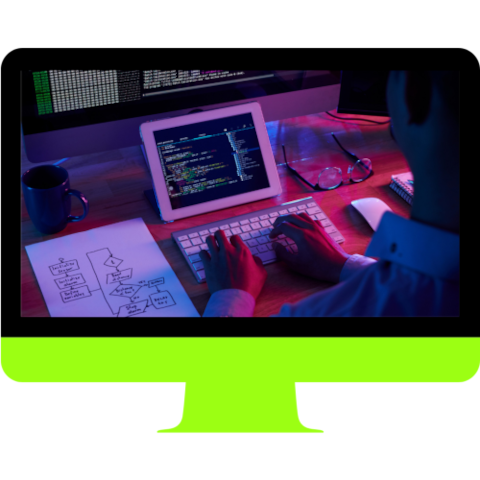
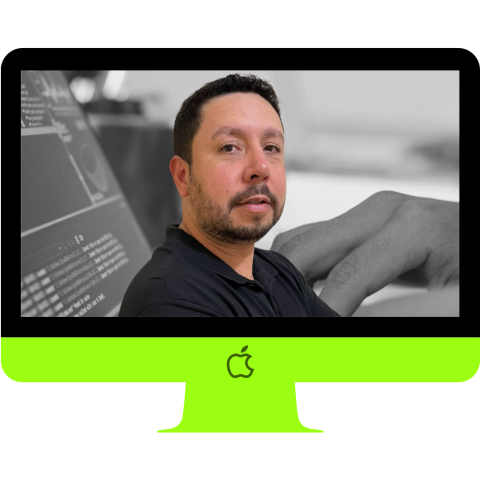
feat: add pages sobre, portifolio, contato

diff --git a/index.html b/index.html
@@ -34,14 +34,13 @@
             <!-- FIM MENU -->
             <!-- BOTÃO CONTATO -->
             <div class="btn-contato">
-            <a href="#">
+            <a href="https://wa.link/fyvd8f">
                 <button>Contato</button>
             </a>
             </div>
             <!-- FIM BOTÃO CONTATO -->
         </div>
-    </header>
-    <!-- FIM HEADER -->
+    </header> <!-- FIM HEADER -->
     <main> 
         <section class="topo">
             <div class="interface">
@@ -55,7 +54,7 @@
                             Bem-vindo à Infinity WD, onde transformamos ideias em experiências digitais de alta qualidade para impulsionar o sucesso da sua marca. Se você está pronto para elevar a sua presença online e alcançar novos patamares de sucesso digital, estamos aqui para ajudar. Vamos transformar suas visões em realidade digital. Entre em contato conosco hoje mesmo para começar esta jornada emocionante.
                         </p>
                         <div class="btn-contato">
-                            <a href="#">
+                            <a href="https://wa.link/fyvd8f">
                                 <button>Entre em Contato</button>
                             </a>
                         </div>
@@ -66,7 +65,28 @@
                     </div>
                 </div>
             </div>
-        </section>
+        </section> <!-- FIM TOPO -->
+        <section class="sobre">
+            <div class="interface">
+                <div class="flex">
+                    <div class="img-sobre">
+                        <img src="images/eu.png" alt="Marcio David">
+                    </div>
+                    <div class="txt-sobre">
+                        <h2>MUITO PRAZER, SOU <span>MARCIO DAVID.</span></h2>
+                        <p>Tenho 42 anos, dos quais, 22 anos trabalhando na área de Logística do Agronegócio. Apaixonado por tecnologia, decidi fazer a transição de carreira para a área de TI.</p> <p>Atualmente encontro-me no segundo semestre do curso Superior de Tecnologia em Análise e Desenvolvimeto de Sistemas, buscando aprimorar minhas habilidades e conhecimentos nesta área em constante evolução.</p>
+                        <p>Determinado e  comprometido em adquirir as competências necessárias para se destacar neste novo campo e contribuir de forma significativa para o setor de tecnologia.</p>
+                        <div class="btn-social">
+                            <a href="https://www.instagram.com/o_marciodavid/" title="Instagran" target="_blank"><button><i class="bi bi-instagram"></i></button></a>
+                            <a href="https://www.facebook.com/marcio.david.754" title="Facebook" target="_blank"><button><i class="bi bi-facebook"></i></button></a>
+                            <a href="https://wa.link/fyvd8f" title="WhatsApp" target="_blank"><button><i class="bi bi-whatsapp"></i></button></a>
+                            <a href="https://www.linkedin.com/in/marcio-david-a8152733/" title="Linkdin" target="_blank"><button><i class="bi bi-linkedin"></i></button></a>
+                            <a href="https://github.com/MarcioDavid81" title="GitHub" target="_blank"><button><i class="bi bi-github"></i></button></a>
+                        </div>
+                    </div>
+                </div>
+            </div>
+        </section> <!-- FIM SOBRE -->
         <section class="cursos">
             <div class="interface">
                 <h2 class="titulo">FORMAÇÃO E  CURSOS DE <span>APERFEIÇOAMENTO.</span></h2>
@@ -93,7 +113,70 @@
                     </div>
                 </div>
             </div>
-        </section>
-    </main>
+        </section> <!-- FIM CURSOS -->
+        <section class="portifolio">
+            <div class="interface">
+                <h2 class="titulo">PORTIFÓLIO DE <span>PROJETOS.</span></h2>
+                <div class="flex">
+                    <a href="https://www.cookieskuks.com.br/nutritiva/" target="_blank">
+                        <div class="img-port" id="nutritiva">
+                            <div class="overlay">Clínica Integrada Nutritiva</div>
+                        </div>
+                    </a>
+                    <a href="https://cookieskuks.com.br/paulamachado/" target="_blank">
+                        <div class="img-port" id="paula">
+                            <div class="overlay">Paula Machado - Acessoria Jurídica</div>
+                        </div>
+                    </a>
+                    <a href="https://cookieskuks.com.br/bellaflor/" target="_blank">
+                        <div class="img-port" id="bellaflor">
+                            <div class="overlay">Bella Flor - Moda Feminina</div>
+                        </div>
+                    </a>
+                </div>
+            </div>
+        </section> <!-- FIM PORTIFÓLIO -->
+        <section class="contato">
+            <div class="interface">
+                <div class="flex">
+                    <div class="txt-contato">
+                        <h2 class="titulo">FALA <span>COMIGO.</span></h2>
+                        <p>Estou sempre aberto a novos projetos e oportunidades de trabalho. Se você tem uma ideia ou projeto em mente, entre em contato comigo para discutirmos como posso ajudar a transformar suas ideias em realidade.</p>
+                        <form action="#">
+                            <input type="text" name="nome" id="nome" placeholder="Nome" required>
+                            <input type="email" name="email" id="email" placeholder="E-mail" required>
+                            <textarea name="mensagem" id="mensagem" placeholder="Mensagem" required></textarea>
+                            <div class="btn-enviar">
+                                <input type="submit" value="ENVIAR">
+                            </div>
+                        </form>
+                    </div>
+                </div>
+            </div>
+        </section> <!-- FIM CONTATO -->
+    </main> <!-- FIM MAIN -->
+    <footer>
+        <div class="interface">
+            <div class="line-footer">
+                <div class="flex">
+                    <div class="logo">
+                        <a href="#"><img src="images/logo.png" alt="Logo Infinity"></a>
+                    </div>
+                    <div class="menu-footer">
+                        <div class="btn-social">
+                            <a href="https://www.instagram.com/o_marciodavid/" title="Instagran" target="_blank"><button><i class="bi bi-instagram"></i></button></a>
+                            <a href="https://www.facebook.com/marcio.david.754" title="Facebook" target="_blank"><button><i class="bi bi-facebook"></i></button></a>
+                            <a href="https://wa.link/fyvd8f" title="WhatsApp" target="_blank"><button><i class="bi bi-whatsapp"></i></button></a>
+                            <a href="https://www.linkedin.com/in/marcio-david-a8152733/" title="Linkdin" target="_blank"><button><i class="bi bi-linkedin"></i></button></a>
+                            <a href="https://github.com/MarcioDavid81" title="GitHub" target="_blank"><button><i class="bi bi-github"></i></button></a>
+                        </div>
+                    </div>
+                    <div class="line-footer">
+                        <p><i class="bi bi-envelope-at"><a href="mailto:marciodavid81@gmail.com"></a> marciodavid81@gmail.com</i></p>
+                    </div>
+                </div>
+            </div>
+        </div>
+    </footer> <!-- FIM FOOTER -->
 </body>
 </html>

diff --git a/css/style.css b/css/style.css
@@ -6,6 +6,7 @@
     --font-1: "Nunito", sans-serif;
     --font-2: "Roboto", sans-serif;
 }
+
 /* ESTILO GERAL */
 *{
     margin: 0;
@@ -78,6 +79,7 @@ header .btn-contato button:hover{
     transform: scale(1.1);
     background-color: #9CFF1E;
 }
+
 /* ESTILO DO TOPO */
 section.topo{
     background-image: url("../images/paralax.jpg");
@@ -140,6 +142,57 @@ section.topo .flex{
     }
 }
 
+/* ESTILO DO SOBRE */
+section.sobre{
+    background-color: #212121;
+    padding: 45px 4%;
+}
+section.sobre .flex{
+    align-items: center;
+    gap: 60px;
+}
+.sobre .txt-sobre{
+    color: #ffffff;
+}
+.sobre .txt-sobre h2{
+    font-size: 36px;
+    line-height: 35px;
+    margin-bottom: 30px;
+}
+.sobre .txt-sobre h2 span{
+    display: block;
+    color: #9CFF1E;
+}
+.sobre .txt-sobre p{
+    margin: 20px 0;
+    font-size: 18px;
+    text-align: justify;
+    line-height: 20px;
+}
+.sobre .img-sobre img{
+    border-radius: 20px;
+}
+.sobre .txt-sobre .btn-social{
+    display: flex;
+    justify-content: space-evenly;
+    margin-top: 30px;
+}
+.sobre .txt-sobre button{
+    width: 60px;
+    height: 60px;
+    font-size: 30px;
+    background-color: #9CFF1E;
+    border: 0;
+    border-radius: 30px;
+    cursor: pointer;
+}
+.sobre .txt-sobre button:hover{
+    box-shadow: 0px 0px 8px #9CFF1E;
+    transition: 0.3s;
+    transform: scale(1.1);
+    background-color: #9CFF1E;
+}
+
 /* ESTILO DOS CURSOS */
 section.cursos{
     background-image: url("../images/paralax2.jpg");
@@ -148,7 +201,7 @@ section.cursos{
     padding: 45px 4%;
 }
 section.cursos .flex{
-    gap: 20px;
+    gap: 10px;
 }
 .cursos .especialidades-box{
     border-radius: 20px;
@@ -173,4 +226,143 @@ section.cursos .flex{
 .cursos .especialidades-box:hover{
     transform: scale(1.05);
     box-shadow: 0px 0px 20px rgba(255, 255, 255, 0.375);
+}
+
+/* ESTILO DO PORTIFÓLIO */
+
+section.portifolio{
+    background-color: #212121;
+    padding: 45px 4%;
+}
+section.portifolio .flex{
+    justify-content: space-around;
+    margin-top: 40px;
+}
+.img-port{
+    width: 360px;
+    height: 460px;
+    background-size: cover;
+    background-position: 100% 0%;
+    cursor: pointer;
+    border-radius: 20px;
+    position: relative;
+}
+.overlay{
+    position: absolute;
+    top: 0;
+    left: 0;
+    width: 100%;
+    height: 100%;
+    background-color: rgba(0, 0, 0, 0.751);
+    border-radius: 19px;
+    display: flex;
+    align-items: center;
+    justify-content: center;
+    font-size: 18px;
+    font-weight: 600;
+    color: #ffffff;
+    opacity: 0;
+    transition: 0.5s;
+}
+.overlay:hover{
+    opacity: 1;
+}
+.img-port:hover{
+    background-position: 100% 100%;
+}
+#nutritiva{
+    background-image: url("../images/nutritiva.png");
+    transition: 5s;
+}
+#paula{
+    background-image: url("../images/paula.png");
+    transition: 5s;
+}
+#bellaflor{
+    background-image: url("../images/bellaflor.png");
+    transition: 0.5s;
+}
+
+/* ESTILO DO CONTATO */
+section.contato{
+    background-image: url("../images/paralax3.jpg");
+    background-position: center center;
+    background-attachment: fixed;
+    padding: 45px 4%;
+}
+.contato .txt-contato p{
+    padding-top: 45px;
+    padding-bottom: 45px;
+    font-size: 18px;
+    color: #ffffff;
+    text-align: justify;
+    line-height: 20px;
+}
+form{
+    max-width: 500px;
+    display: flex;
+    justify-content: center;
+    flex-direction: column;
+    gap: 10px;
+    margin: 0 auto;
+}
+form input, form textarea{
+    width: 100%;
+    background-color: #00000060;
+    border: 0;
+    outline: 0;
+    padding: 10px;
+    border-radius: 20px;
+    color: #ffffff;
+    font-size: 18px;
+}
+form textarea{
+    resize: none;
+    height: 200px;
+    max-height: 500px;
+}
+form input:focus{
+    border: 2px solid #9CFF1E;
+    background-color: #000000;
+}
+form textarea:focus{
+    border: 2px solid #9CFF1E;
+    background-color: #000000;
+}
+form input::placeholder{
+    color: #9CFF1E;
+}
+form textarea::placeholder{
+    color: #9CFF1E;
+}
+form .btn-enviar{
+    margin-top: 20px;
+    text-align: center;
+}
+form .btn-enviar input{
+    width: 100px;
+    background-color: #9CFF1E;
+    color: #000000;
+    font-weight: 800;
+    cursor: pointer;
+}
+form .btn-enviar input:hover{
+    box-shadow: 0px 0px 8px #9CFF1E;
+    transition: 0.3s;
+    transform: scale(1.1);
+}
+
+/* ESTILO DO RODAPÉ */
+footer{
+    background-color: #212121;
+    padding: 45px 4%;
+}
+footer .menu-footer{
+    display: flex;
+    justify-content: space-between;
+    align-items: center;
+}
+footer .flex{
+    justify-content: space-between;
+    align-items: center;
 }
